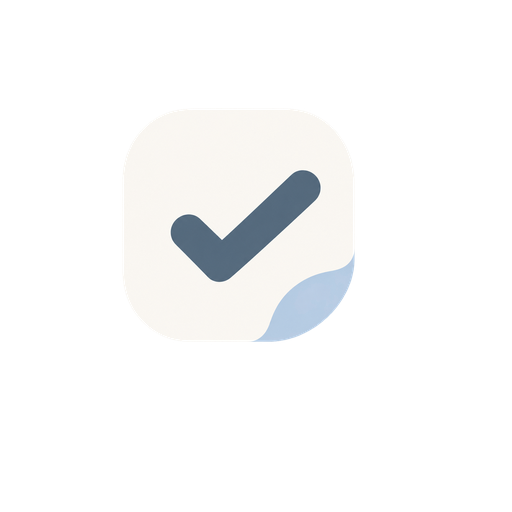
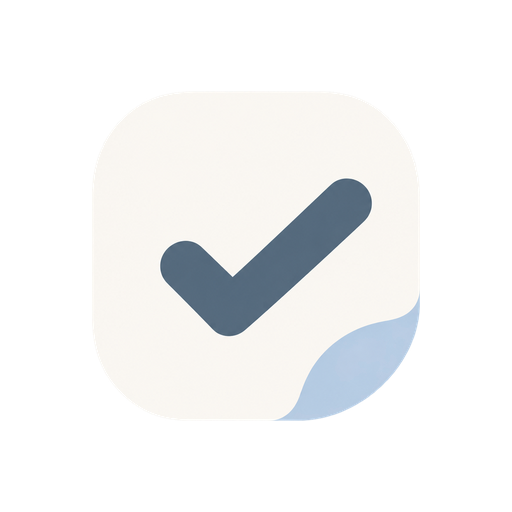
앱 아이콘 크기와 정렬 개선

Changed region(s): [[0.3125, 0.3125, 0.75, 0.6875], [0.5312, 0.5938, 0.8438, 0.8438]]

diff --git a/scripts/generate-brand-assets.py b/scripts/generate-brand-assets.py
@@ -15,7 +15,10 @@ PRIMARY = (82, 104, 121, 255)
 def trimmed_source() -> Image.Image:
     image = Image.open(SOURCE).convert("RGBA")
     alpha = image.getchannel("A")
-    bbox = alpha.getbbox()
+    # Ignore nearly transparent generation residue around the mark. Including those
+    # pixels makes the visible artwork shrink and appear offset inside app icons.
+    visible_alpha = alpha.point(lambda value: 255 if value >= 16 else 0)
+    bbox = visible_alpha.getbbox()
     if bbox is None:
         raise ValueError(f"Brand source has no visible pixels: {SOURCE}")
     return image.crop(bbox)

diff --git a/docs/design/BRAND_ASSET_REVIEW.md b/docs/design/BRAND_ASSET_REVIEW.md
@@ -1,10 +1,10 @@
 # 브랜드 자산 점검
 
-Last updated: 2026-08-30
+Last updated: 2026-09-15
 
 ## 점검 범위
 
-2026-08-23에 현재 `icon.png`, Android adaptive foreground·background·monochrome, `splash-icon.png`, `favicon.png` 원본을 직접 확인했다. PNG 크기와 설정 연결은 `npm run check:release-assets`로 별도 검사한다.
+2026-09-15에 현재 `icon.png`, Android adaptive foreground·background·monochrome, `splash-icon.png`, `favicon.png` 원본을 직접 확인했다. PNG 크기와 설정 연결은 `npm run check:release-assets`로 별도 검사한다.
 
 ## 현재 판정
 
@@ -20,6 +20,11 @@ Last updated: 2026-08-30
 모든 플랫폼 자산은 `assets/images/dooit-minimal-icon-v3.png`에서 파생한다. `scripts/generate-brand-assets.py`를 실행하면 규격별 PNG를 동일한 기준으로 다시 생성할 수 있다.
 
 ## 이번 수정
+
+- 원본 가장자리의 거의 투명한 생성 잔여 픽셀을 실제 그림 경계에서 제외했다. 이 픽셀이 포함되면서 심볼이 작아지고 한쪽으로 치우쳐 보이던 문제를 수정했다.
+- 실제 그림 경계를 기준으로 심볼을 확대하고 다시 중앙 정렬했다. 앱 icon, Android foreground·monochrome, splash와 favicon을 같은 방식으로 재생성했다.
+- Android foreground의 실제 표시 영역은 512px 캔버스 안의 약 328×330px로, adaptive icon의 중앙 안전 영역을 유지한다.
+- 원형·squircle launcher mask와 실제 홈 화면 배치는 새 Android 빌드 설치 후 확인해야 한다.
 
 - `expo-splash-screen` 배경을 흰색에서 앱 light theme primary `#526879`로 바꿨다.
 - 흰색 splash mark가 배경 위에서 사라지지 않도록 정적 설정 검사에 배경값을 추가했다.
